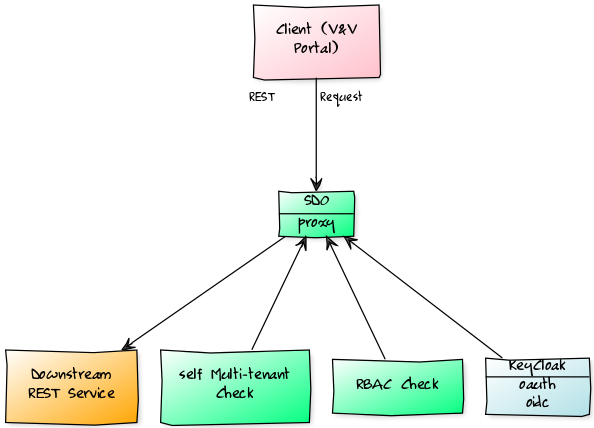
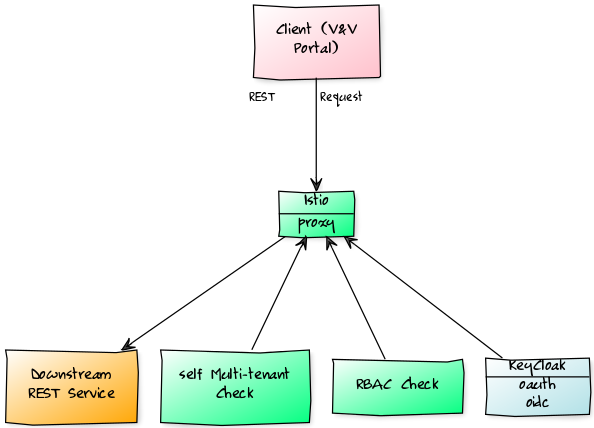
SDO to Istio

diff --git a/README.md b/README.md
@@ -13,18 +13,18 @@ Outline the chosen approach for authorization and authentication for the clients
 ```mermaid
 sequenceDiagram
     participant FHIRClient
-    participant SDO
+    participant Istio
     participant KeyCloak
     participant DataServicesREST
-    FHIRClient->>SDO: request Authentication/RBAC Authorization
+    FHIRClient->>Istio: request Authentication/RBAC Authorization
     loop AuthN_AuthZ
-      SDO->>KeyCloak: OAUTH/OIDC Token
-      SDO->>SDO: check RBAC
-      SDO->>SDO: Multi-tenant validation check
+      Istio->>KeyCloak: OAUTH/OIDC Token
+      Istio->>Istio: check RBAC
+      Istio->>Istio: Multi-tenant validation check
     end
-    Note right of SDO: Part of Kubernetes
-    SDO->>DataServicesREST: pass through on success
-    SDO-->>FHIRClient: failure status
+    Note right of Istio: Part of Kubernetes
+    Istio->>DataServicesREST: pass through on success
+    Istio-->>FHIRClient: failure status
     DataServicesREST->>FHIRClient: Successful response
 ```
 
